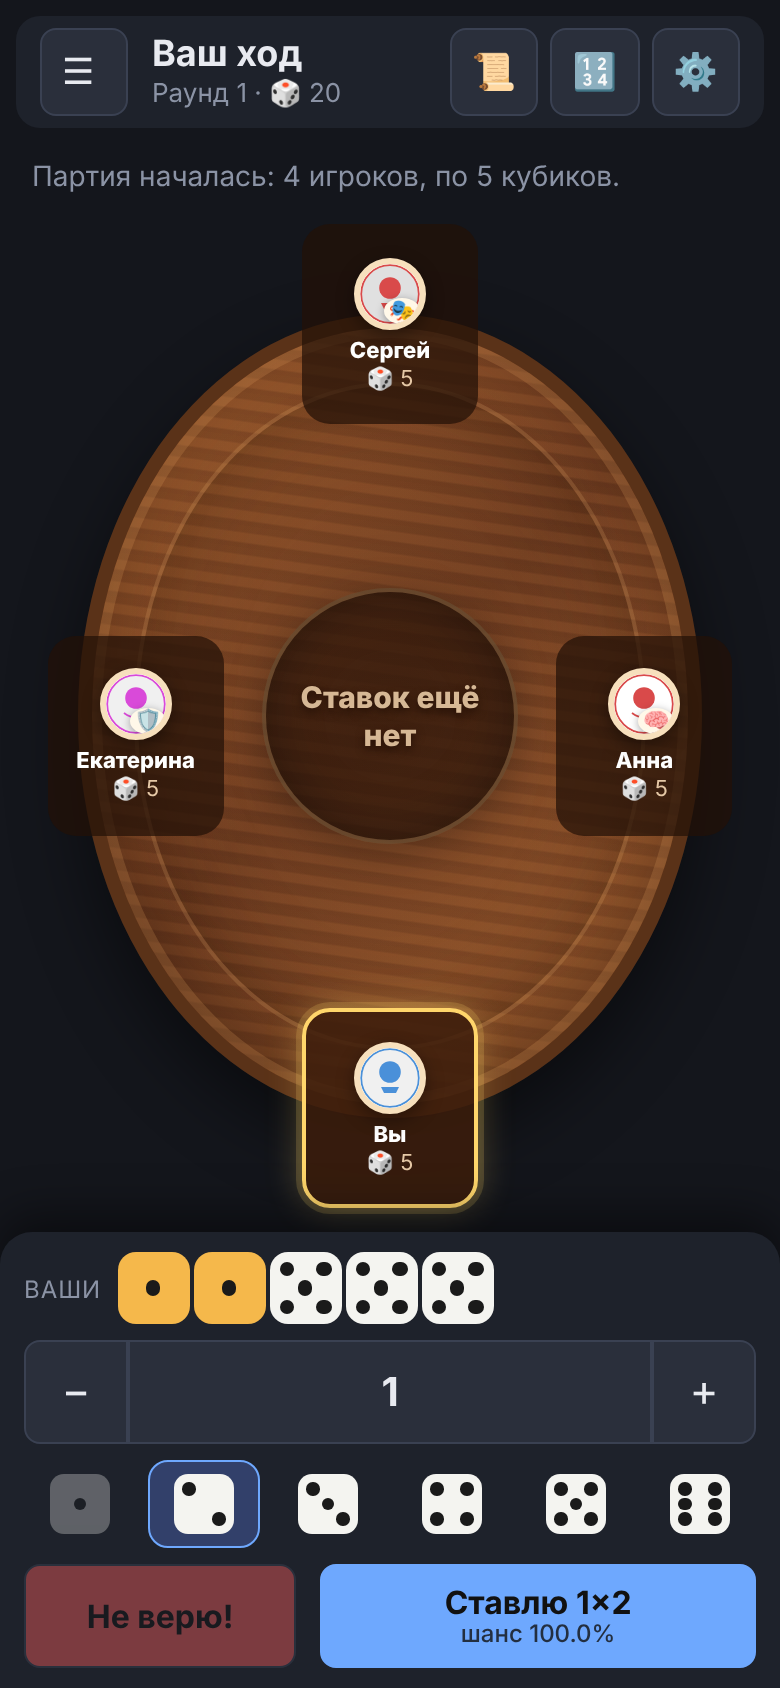
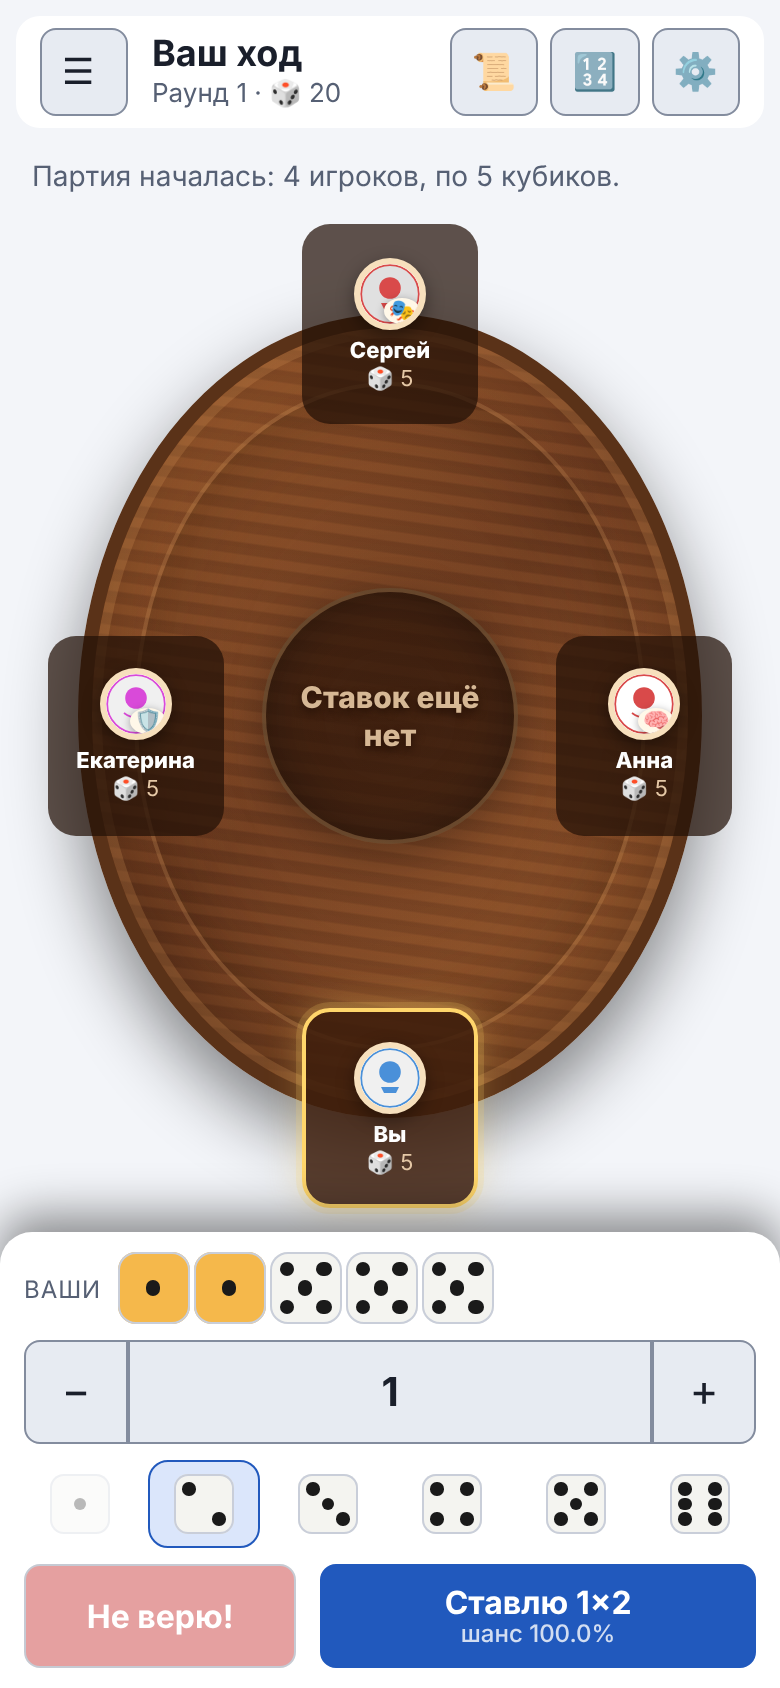
Темы: проверка вёрстки и e2e во всех темах, скриншоты
- tests/test_theme_contrast.py: контраст текста на реальных экранах в обеих темах
- layout_audit: переменная PERUDO_THEME; в CI учебная вёрстка прогоняется и в тёмной теме
- e2e: партия в тёмной теме без ошибок, смена цветов вместе с темой
- tools/screenshots.py: тема снимка; скриптовые снимки светлые, добавлены два тёмных

diff --git a/tests/e2e/theme.spec.js b/tests/e2e/theme.spec.js
@@ -110,4 +110,40 @@ test.describe('Тема оформления', () => {
     const saved = await page.evaluate(() => JSON.parse(localStorage.getItem('perudo.settings')));
     expect(saved.theme).toBe('system');
   });
+
+  test('в тёмной теме партия идёт без ошибок: стол, ставка, ход ботов', async ({ page }) => {
+    const errors = [];
+    page.on('pageerror', (e) => errors.push(String(e)));
+    await page.addInitScript(() => localStorage.setItem('perudo.settings', JSON.stringify({ theme: 'dark', botSpeed: 'fast' })));
+    await page.goto('/');
+    await ready(page);
+    await openTab(page, 'game');
+    await page.locator('#gBots').fill('2');
+    await page.locator('#gRevealOpt').setChecked(false);
+    await page.locator('#gSetup .side-start').click();
+    await expect(page.locator('#gameTable .seat').first()).toBeVisible();
+    await page.waitForFunction(() => {
+      const g = window.__perudo_v2.game;
+      return g && g.state === 'active' && g.currentPlayer === 0;
+    }, null, { timeout: 15_000 });
+    await page.locator('#gRaise').click();
+    await page.waitForFunction(() => window.__perudo_v2.game.currentPlayer === 0, null, { timeout: 15_000 });
+    expect(await theme(page)).toBe('dark');
+    expect(errors).toEqual([]);
+  });
+
+  test('цвет текста и фон меняются вместе с темой', async ({ page }) => {
+    await page.goto('/');
+    await ready(page);
+    const colors = () => page.evaluate(() => {
+      const cs = getComputedStyle(document.body);
+      return { bg: cs.backgroundColor, fg: cs.color };
+    });
+    await page.evaluate(() => window.__perudo_v2.setThemeMode('light'));
+    const light = await colors();
+    await page.evaluate(() => window.__perudo_v2.setThemeMode('dark'));
+    const dark = await colors();
+    expect(light.bg).not.toBe(dark.bg);
+    expect(light.fg).not.toBe(dark.fg);
+  });
 });

diff --git a/tests/test_theme_contrast.py b/tests/test_theme_contrast.py
@@ -1,0 +1,153 @@
+"""Контраст текста на реальных экранах в светлой и тёмной теме (WCAG AA: 4,5:1, для крупного текста 3:1).
+
+Обходит все разделы на десктопе и телефоне, для каждого видимого текста считает отношение контраста
+к фону (с учётом прозрачности цвета и всех предков). Элементы с фоновой картинкой или градиентом пропускаются.
+Запуск: python3 -m unittest tests.test_theme_contrast
+"""
+import functools
+import http.server
+import os
+import threading
+import unittest
+
+from playwright.sync_api import sync_playwright
+
+ROOT = os.path.dirname(os.path.dirname(os.path.abspath(__file__)))
+DESKTOP = {"width": 1280, "height": 720}
+PHONE = {"width": 390, "height": 844}
+GUEST = "if (!localStorage.getItem('perudo.device')) localStorage.setItem('perudo.device', '{\"account\":\"guest\"}');"
+SEED = "let s = 7; Math.random = () => { s = (s * 16807) % 2147483647; return s / 2147483647; };"
+
+# Известные места тёмной темы ниже порога (так было до появления тем). Светлая тема исключений не имеет.
+# Ключ: тег и первый класс элемента.
+KNOWN_DARK = {"span.trainer-chip", "em.", "span.seat-style"}
+
+MEASURE = r"""() => {
+  const parse = (s) => {
+    let m = s.match(/rgba?\(([^)]+)\)/);
+    if (m) { const p = m[1].split(/[ ,\/]+/).filter(Boolean).map(Number); return [p[0], p[1], p[2], p.length > 3 ? p[3] : 1]; }
+    m = s.match(/color\(srgb ([^)]+)\)/);
+    if (m) { const p = m[1].split(/[ \/]+/).map(Number); return [p[0] * 255, p[1] * 255, p[2] * 255, p.length > 3 ? p[3] : 1]; }
+    return null;
+  };
+  const over = (f, b) => { const a = f[3]; return [f[0] * a + b[0] * (1 - a), f[1] * a + b[1] * (1 - a), f[2] * a + b[2] * (1 - a), 1]; };
+  const lum = (c) => { const f = (v) => { v /= 255; return v <= 0.03928 ? v / 12.92 : Math.pow((v + 0.055) / 1.055, 2.4); }; return 0.2126 * f(c[0]) + 0.7152 * f(c[1]) + 0.0722 * f(c[2]); };
+  const ratio = (a, b) => { let x = lum(a), y = lum(b); if (x < y) [x, y] = [y, x]; return (x + 0.05) / (y + 0.05); };
+  const bgOf = (el) => {
+    const chain = [];
+    for (let e = el; e; e = e.parentElement) {
+      const cs = getComputedStyle(e);
+      if (cs.backgroundImage && cs.backgroundImage !== 'none') return null;
+      const c = parse(cs.backgroundColor);
+      if (c && c[3] > 0) { chain.push(c); if (c[3] >= 1) break; }
+    }
+    let base = [255, 255, 255, 1];
+    for (let i = chain.length - 1; i >= 0; i--) base = over(chain[i], base);
+    return base;
+  };
+  const visible = (e) => {
+    const r = e.getBoundingClientRect();
+    if (r.width < 2 || r.height < 2) return false;
+    for (let x = e; x; x = x.parentElement) { const cs = getComputedStyle(x); if (cs.display === 'none' || cs.visibility === 'hidden') return false; }
+    return true;
+  };
+  const out = [];
+  const seen = new Set();
+  const walker = document.createTreeWalker(document.body, NodeFilter.SHOW_TEXT);
+  while (walker.nextNode()) {
+    const n = walker.currentNode;
+    if (!n.textContent.trim()) continue;
+    const el = n.parentElement;
+    if (!el || seen.has(el)) continue;
+    seen.add(el);
+    if (!visible(el) || el.closest('[disabled],[aria-disabled=true],.is-disabled')) continue;
+    const cs = getComputedStyle(el);
+    const fg = parse(cs.color);
+    const bg = bgOf(el);
+    if (!fg || !bg) continue;
+    let op = 1;
+    for (let x = el; x; x = x.parentElement) op *= parseFloat(getComputedStyle(x).opacity);
+    const f = over([fg[0], fg[1], fg[2], fg[3] * op], bg);
+    const r = ratio(f, bg);
+    const size = parseFloat(cs.fontSize);
+    const large = size >= 24 || (size >= 18.66 && parseInt(cs.fontWeight) >= 700);
+    if (r < (large ? 3 : 4.5)) {
+      out.push({ key: el.tagName.toLowerCase() + '.' + (String(el.className).split(' ')[0] || ''), ratio: +r.toFixed(2), text: n.textContent.trim().slice(0, 30) });
+    }
+  }
+  return out;
+}"""
+
+
+class _Quiet(http.server.SimpleHTTPRequestHandler):
+    def log_message(self, *args):
+        pass
+
+
+def open_tab(page, tab):
+    btn = page.locator(f'.tab-btn[data-t="{tab}"]')
+    if not btn.is_visible():
+        page.locator(".hud-menu:visible").click()
+    btn.click()
+    page.wait_for_timeout(250)
+
+
+def audit(browser, url, theme):
+    """Возвращает {экран: [нарушения]} для темы."""
+    found = {}
+    for vname, vp in (("desktop", DESKTOP), ("phone", PHONE)):
+        ctx = browser.new_context(viewport=vp, reduced_motion="reduce")
+        ctx.add_init_script(GUEST + SEED + "localStorage.setItem('perudo.settings', JSON.stringify({theme:'%s'}));" % theme)
+        page = ctx.new_page()
+        page.goto(url)
+        page.wait_for_selector(".tab-btn", state="attached")
+        for tab in ("calc", "train", "drill", "duel", "sim"):
+            open_tab(page, tab)
+            found[f"{vname}:{tab}"] = page.evaluate(MEASURE)
+        open_tab(page, "stats")
+        for sub in ("Results", "Player", "Data"):
+            page.locator(f"#stTab{sub}").click()
+            page.wait_for_timeout(200)
+            found[f"{vname}:stats-{sub.lower()}"] = page.evaluate(MEASURE)
+        open_tab(page, "game")
+        found[f"{vname}:setup"] = page.evaluate(MEASURE)
+        page.evaluate("n => { document.querySelector('#gBots').value = n; document.querySelector('#gRevealOpt').checked = false; window.__perudo_v2.startNewGame(); }", "3")
+        page.wait_for_selector(".seat")
+        page.wait_for_timeout(800)
+        found[f"{vname}:game"] = page.evaluate(MEASURE)
+        ctx.close()
+    return found
+
+
+class ThemeContrastTest(unittest.TestCase):
+    @classmethod
+    def setUpClass(cls):
+        handler = functools.partial(_Quiet, directory=ROOT)
+        cls.httpd = http.server.ThreadingHTTPServer(("127.0.0.1", 0), handler)
+        cls.url = f"http://127.0.0.1:{cls.httpd.server_address[1]}/index.html"
+        threading.Thread(target=cls.httpd.serve_forever, daemon=True).start()
+        cls.pw = sync_playwright().start()
+        cls.browser = cls.pw.chromium.launch()
+
+    @classmethod
+    def tearDownClass(cls):
+        cls.browser.close()
+        cls.pw.stop()
+        cls.httpd.shutdown()
+
+    def check(self, theme, known):
+        found = audit(self.browser, self.url, theme)
+        self.assertGreaterEqual(len(found), 18)       # все разделы обойдены
+        bad = [f"{screen}: {v['key']} «{v['text']}» {v['ratio']}"
+               for screen, items in found.items() for v in items if v["key"] not in known]
+        self.assertEqual(bad, [], f"тема {theme}: текст ниже порога контраста")
+
+    def test_light_theme_has_no_low_contrast_text(self):
+        self.check("light", set())
+
+    def test_dark_theme_has_only_known_low_contrast_text(self):
+        self.check("dark", KNOWN_DARK)
+
+
+if __name__ == "__main__":
+    unittest.main()

diff --git a/tools/screenshots.py b/tools/screenshots.py
@@ -11,9 +11,9 @@
 
 Снимки воспроизводимы: генератор случайных чисел в странице подменён на детерминированный,
 поэтому имена ботов, кубики и числа симуляции при каждом запуске одни и те же, а diff в git
-показывает только реальные изменения вида. Состояния, которые нужно собирать руками
-(Калькулятор с результатом, Тренажёр с разбором, итог партии, Дуэль, Статистика), скрипт не трогает:
-их картинки в docs/img остаются прежними.
+показывает только реальные изменения вида. Все снимки светлые, кроме двух с «dark» в имени (тёмная тема).
+Состояния, которые нужно собирать руками (Калькулятор с результатом, Тренажёр с разбором,
+итог партии, Дуэль, Статистика), скрипт не трогает: их картинки в docs/img остаются прежними.
 """
 import argparse
 import functools
@@ -41,6 +41,12 @@ SEED = """(() => {
     return ((t ^ (t >>> 14)) >>> 0) / 4294967296;
   };
 })();"""
+
+
+def theme_script(theme):
+    """Выбор темы до загрузки страницы: снимки не зависят от настроек системы."""
+    return ("(() => { const s = JSON.parse(localStorage.getItem('perudo.settings') || '{}'); "
+            f"s.theme = '{theme}'; localStorage.setItem('perudo.settings', JSON.stringify(s)); }})();")
 
 
 class _Quiet(http.server.SimpleHTTPRequestHandler):
@@ -105,7 +111,7 @@ def scene_trainer_settings(page, phone):
     page.wait_for_timeout(500)
 
 
-# (имя файла без .png, окно, масштаб, сцена)
+# (имя файла без .png, окно, масштаб, сцена[, тема]); тема по умолчанию светлая
 SHOTS = [
     ("settings-desktop", None, 1, scene_settings_desktop_tall),
     ("settings-phone", PHONE, 2, scene_settings),
@@ -116,16 +122,20 @@ SHOTS = [
     ("sim-phone", PHONE, 2, scene_sim),
     ("trainer-settings-desktop", DESKTOP, 1, scene_trainer_settings),
     ("trainer-settings-phone", PHONE, 2, scene_trainer_settings),
+    ("settings-dark-desktop", None, 1, scene_settings_desktop_tall, "dark"),
+    ("game-dark-phone", PHONE, 2, scene_game, "dark"),
 ]
 NAMES = [s[0] for s in SHOTS]
 
 
 def take(browser, url, name, out_dir):
     """Снимает один кадр. Возвращает путь к файлу."""
-    _, viewport, scale, scene = next(s for s in SHOTS if s[0] == name)
+    _, viewport, scale, scene, *rest = next(s for s in SHOTS if s[0] == name)
+    theme = rest[0] if rest else "light"
     ctx = browser.new_context(viewport=viewport or DESKTOP, device_scale_factor=scale)
     try:
         ctx.add_init_script(GUEST)
+        ctx.add_init_script(theme_script(theme))
         ctx.add_init_script(SEED)
         page = ctx.new_page()
         errors = []

diff --git a/tests/layout_audit.py b/tests/layout_audit.py
@@ -67,6 +67,14 @@ WEAK_SEED = """() => {
 
 
 # Постоянный игрок уже выбрал режим: окно «Как вы будете играть?» не открывается.
+# Тема для замеров: PERUDO_THEME=dark|light (по умолчанию — как в приложении). Нужна, чтобы проверить вёрстку в тёмной теме.
+THEME = os.environ.get("PERUDO_THEME", "")
+THEME_SEED = (
+    "(() => { const s = JSON.parse(localStorage.getItem('perudo.settings') || '{}'); s.theme = '%s'; "
+    "localStorage.setItem('perudo.settings', JSON.stringify(s)); })();" % THEME
+    if THEME in ("dark", "light") else ""
+)
+
 GUEST_SEED = "if (!localStorage.getItem('perudo.device')) localStorage.setItem('perudo.device', '{\"account\":\"guest\"}');"
 
 # Вход в облако выполнен, на устройстве есть партии, а в облаке другая копия: окно выбора и блок «Игрок» с выбором.
@@ -122,7 +130,7 @@ def measure_all(base_url, browser):
         m = fresh.evaluate(MEASURE, "#clGuest")
         rows.append({"size": f"{w}x{h}", "state": "stats: welcome dialog", **m})
         fresh.close()
-        ctx.add_init_script(GUEST_SEED)
+        ctx.add_init_script(GUEST_SEED + THEME_SEED)
         page = ctx.new_page()
         page.goto(base_url)
         page.wait_for_selector("#cRes")
